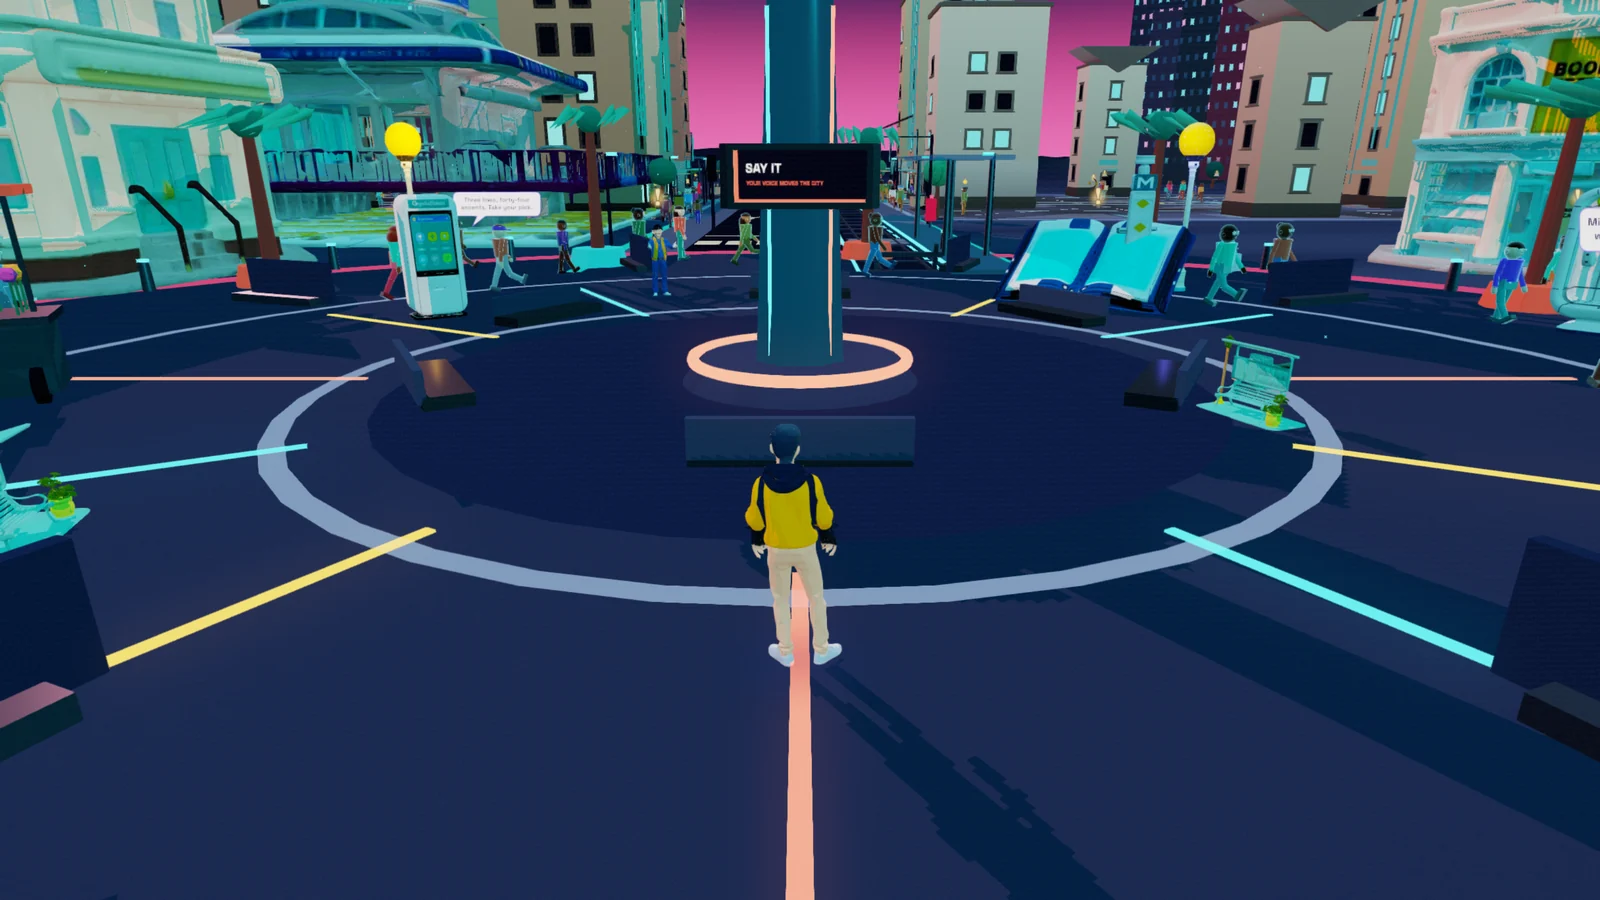
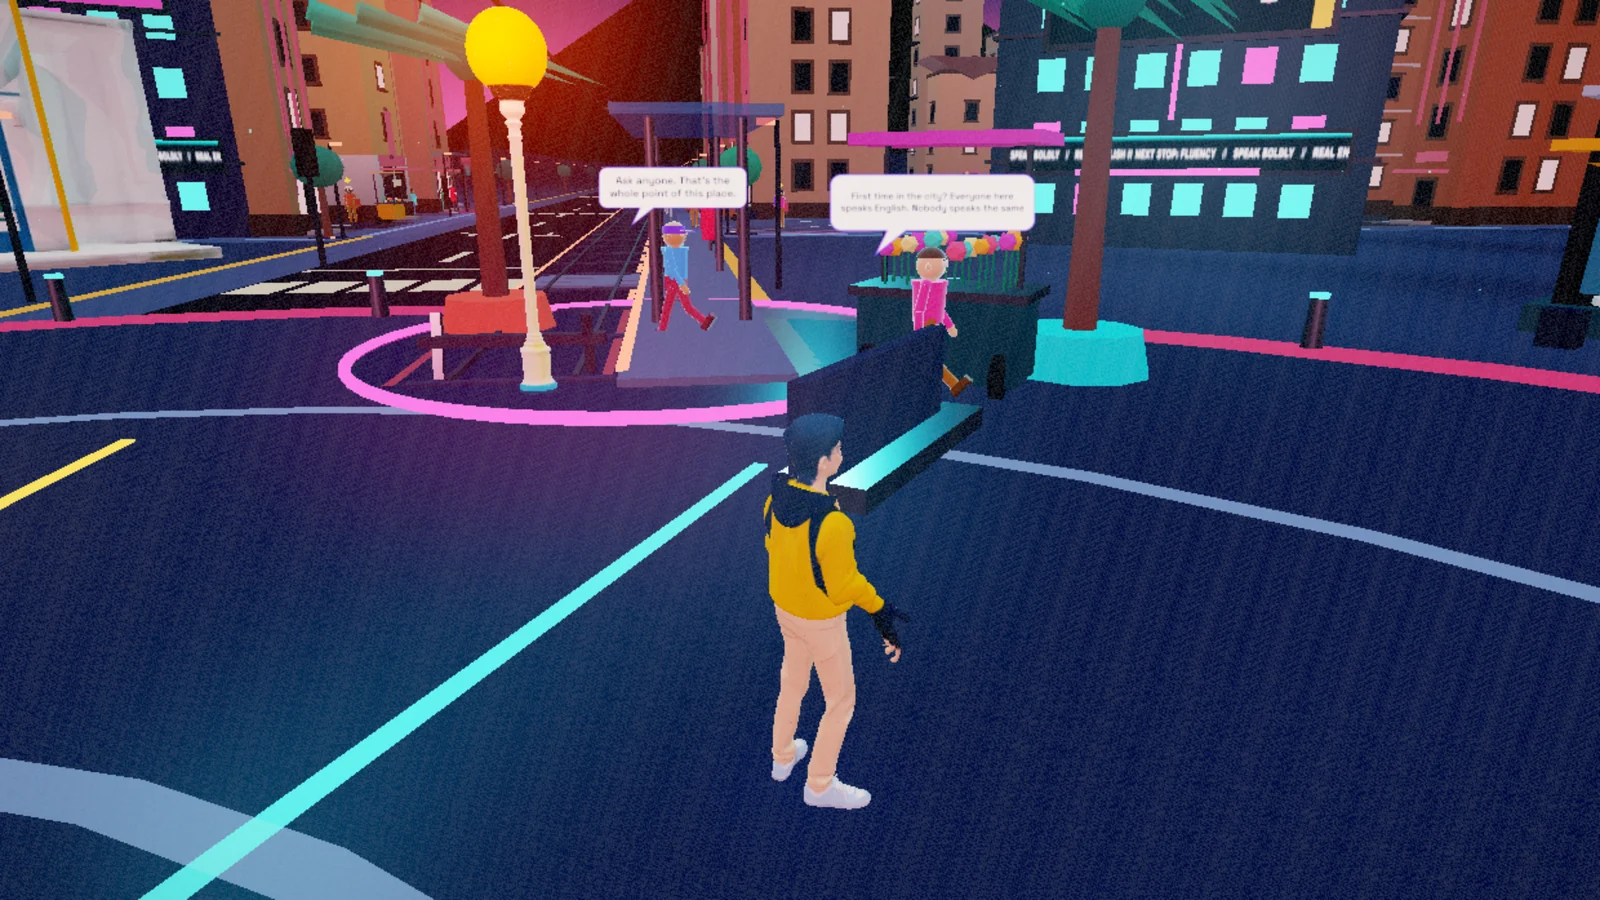
Slider arrows; replace bland drill slide with in-world speaking practice
Arrows alongside autoplay, visible on touch where there is no hover.

The vocabulary/flashcards slide was showcasing the weakest screen we have: the
drill modules are pale on near-white and, checked live, they ignore the site's
dark theme entirely. Replaced with the Say It board (your voice moves the city)
and a city scene with locals mid-conversation. Both are real captures with the
game HUD hidden, not generated.

Claude-Session: https://claude.ai/code/session_013Fk6dgehBudHz3ZUHN952a

diff --git a/src/views/v3/GameHome.jsx b/src/views/v3/GameHome.jsx
@@ -112,10 +112,11 @@ const GH = {
     h1a: 'Learn live.', h1b: 'Speak every day',
     ctaBook: 'Book your first lesson', ctaPricing: 'See pricing', ctaWorld: 'Play the World for free',
     heroSliderLabel: 'What a course with us includes',
+    heroSliderPrev: 'Previous slide', heroSliderNext: 'Next slide',
     heroSlides: [
       { eyebrow: 'live 1:1 lessons', title: '60 minutes, with your own teacher', cta: 'Book your first lesson' },
       { eyebrow: 'your CEFR course', title: 'A course matched to your level', cta: 'See pricing' },
-      { eyebrow: 'practice between lessons', title: 'Lesson vocabulary becomes your flashcards', cta: 'Try it now' },
+      { eyebrow: 'practice between lessons', title: 'Say it out loud — your voice moves the city', cta: 'Try it now' },
       { eyebrow: 'English Metropolis World', title: 'Practise English across a living 3D city', cta: 'Explore it free' },
     ],
     chips: ['60-min live 1:1 lessons', 'CEFR-matched courses', 'lesson vocabulary becomes flashcards', 'book online in minutes'],
@@ -182,10 +183,11 @@ const GH = {
     h1a: 'Ucz się na żywo.', h1b: 'Mów po angielsku na co dzień',
     ctaBook: 'Zarezerwuj pierwszą lekcję', ctaPricing: 'Zobacz cennik', ctaWorld: 'Zagraj w World za darmo',
     heroSliderLabel: 'Co obejmuje kurs u nas',
+    heroSliderPrev: 'Poprzedni slajd', heroSliderNext: 'Następny slajd',
     heroSlides: [
       { eyebrow: 'lekcje 1:1 na żywo', title: '60 minut, z własnym lektorem', cta: 'Zarezerwuj pierwszą lekcję' },
       { eyebrow: 'Twój kurs CEFR', title: 'Kurs dopasowany do Twojego poziomu', cta: 'Zobacz cennik' },
-      { eyebrow: 'ćwiczenia między lekcjami', title: 'Słownictwo z lekcji trafia do Twoich fiszek', cta: 'Wypróbuj teraz' },
+      { eyebrow: 'ćwiczenia między lekcjami', title: 'Mów na głos — Twój głos porusza miasto', cta: 'Wypróbuj teraz' },
       { eyebrow: 'English Metropolis World', title: 'Ćwicz angielski w żywym mieście 3D', cta: 'Wejdź za darmo' },
     ],
     chips: ['lekcje 1:1 na żywo, 60 min', 'kursy dopasowane do poziomu CEFR', 'słownictwo z lekcji trafia do fiszek', 'rezerwacja online w kilka minut'],
@@ -934,6 +936,8 @@ export default function GameHome() {
           <div className="gh-rise gh-rise-3 gh-hero-stage-wrap" style={{ minWidth: 0 }}>
             <HeroSlider
               label={W.heroSliderLabel}
+              prevLabel={W.heroSliderPrev}
+              nextLabel={W.heroSliderNext}
               slides={HERO_MEDIA.map((media, i) => ({
                 ...media, ...W.heroSlides[i], alt: W.heroSlides[i].title,
               }))}

diff --git a/src/views/v3/game-home.css b/src/views/v3/game-home.css
@@ -1339,3 +1339,37 @@
   .gh-hs-slide[data-active="true"] img { animation: none; }
   .gh-hs-dot { transition: none; }
 }
+
+/* Arrows sit inside the frame and stay visible on touch, where there is no
+   hover to reveal them. They dim rather than disappear so the control never
+   moves the moment a pointer arrives. */
+.gh-hs-arrow {
+  position: absolute;
+  top: 50%;
+  transform: translateY(-50%);
+  width: 40px; height: 40px;
+  display: grid; place-items: center;
+  padding: 0; cursor: pointer;
+  border: 1px solid rgba(255, 255, 255, 0.34);
+  border-radius: 999px;
+  color: #fff;
+  background: rgba(14, 10, 27, 0.42);
+  -webkit-backdrop-filter: blur(10px) saturate(140%);
+  backdrop-filter: blur(10px) saturate(140%);
+  opacity: 0.62;
+  transition: opacity 200ms ease, background 200ms ease, transform 200ms cubic-bezier(0.16, 1, 0.3, 1);
+}
+.gh-hs-arrow .material-symbols-outlined { font-size: 22px; }
+.gh-hs-arrow--prev { left: 14px; }
+.gh-hs-arrow--next { right: 14px; }
+.gh-hs:hover .gh-hs-arrow { opacity: 1; }
+.gh-hs-arrow:hover { background: rgba(14, 10, 27, 0.72); }
+.gh-hs-arrow--prev:hover { transform: translateY(-50%) translateX(-2px); }
+.gh-hs-arrow--next:hover { transform: translateY(-50%) translateX(2px); }
+.gh-hs-arrow:focus-visible { opacity: 1; outline: 2px solid #fff; outline-offset: 3px; }
+@media (max-width: 620px) {
+  .gh-hs-arrow { width: 34px; height: 34px; opacity: 0.85; }
+  .gh-hs-arrow--prev { left: 8px; }
+  .gh-hs-arrow--next { right: 8px; }
+}
+@media (prefers-reduced-motion: reduce) { .gh-hs-arrow { transition: none; } }

diff --git a/src/views/v3/HeroSlider.jsx b/src/views/v3/HeroSlider.jsx
@@ -27,7 +27,7 @@ function Slide({ slide, active }) {
   )
 }
 
-export default function HeroSlider({ slides, label }) {
+export default function HeroSlider({ slides, label, prevLabel, nextLabel }) {
   const [index, setIndex] = useState(0)
   const [paused, setPaused] = useState(false)
   const rootRef = useRef(null)
@@ -83,6 +83,15 @@ export default function HeroSlider({ slides, label }) {
           <Slide key={slide.key} slide={slide} active={i === index}/>
         ))}
       </ul>
+
+      <button type="button" className="gh-hs-arrow gh-hs-arrow--prev"
+        aria-label={prevLabel} onClick={() => go(index - 1)}>
+        <span className="material-symbols-outlined" aria-hidden>chevron_left</span>
+      </button>
+      <button type="button" className="gh-hs-arrow gh-hs-arrow--next"
+        aria-label={nextLabel} onClick={() => go(index + 1)}>
+        <span className="material-symbols-outlined" aria-hidden>chevron_right</span>
+      </button>
 
       <div className="gh-hs-dots" role="tablist" aria-label={label}>
         {slides.map((slide, i) => (
